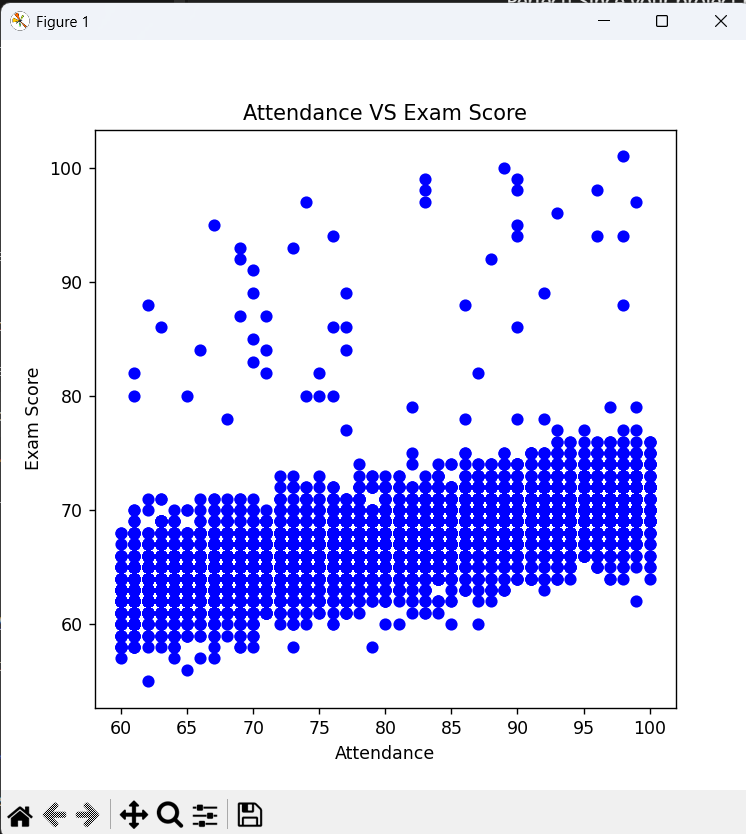
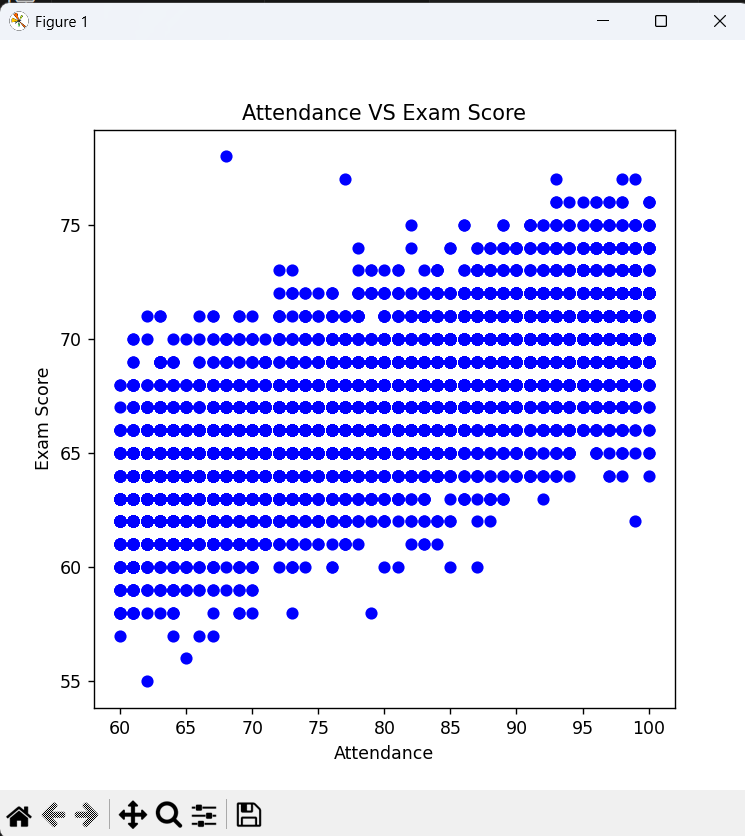
Version01

diff --git a/StudentScorePrediction.py b/StudentScorePrediction.py
@@ -5,13 +5,18 @@ from sklearn.model_selection import train_test_split
 from sklearn.metrics import mean_squared_error, mean_absolute_error, r2_score
 import matplotlib.pyplot as plt
 import seaborn as sb
+from scipy import stats
 
 # Load and clean data
 Data = pd.read_csv('StudentPerformanceFactors.csv')
-Clean_Data = Data.dropna(axis=0)
+No_NUll_Data = Data.dropna(axis=0)
+All_Factors = ['Hours_Studied','Attendance','Sleep_Hours','Previous_Scores','Tutoring_Sessions','Physical_Activity','Exam_Score']
+
+# Remove Outliers by z-score
+z_score = stats.zscore(No_NUll_Data[All_Factors])
+Clean_Data = No_NUll_Data[abs(z_score<3).all(axis=1)]
 
 # Correlation heatmap
-All_Factors = ['Hours_Studied','Attendance','Sleep_Hours','Previous_Scores','Tutoring_Sessions','Physical_Activity','Exam_Score']
 Check_Correlation = Clean_Data[All_Factors]
 plt.figure(figsize=(13,6))
 sb.heatmap(Check_Correlation.corr(), annot=True, cmap='coolwarm')

diff --git a/README.md b/README.md
@@ -8,7 +8,7 @@ It uses **machine learning regression models** to train and evaluate predictions
 ## 🚀 Project Workflow
 
 1. **Data Cleaning**  
-   - Removed missing values (NaN).  
+   - Removed missing values (NaN) and Drop Outliers.
 
 2. **Exploratory Data Analysis (EDA)**  
    - Scatter plots to visualize relationships between factors and exam score.  
@@ -27,9 +27,9 @@ It uses **machine learning regression models** to train and evaluate predictions
    - Compared predictions with actual scores.  
 
 5. **Evaluation**  
-   - **Mean Absolute Error (MAE):** ~1.35  
-   - **Mean Squared Error (MSE):** ~4.74  
-   - **R² Score:** ~0.67 
+   - **Mean Absolute Error (MAE):** ~1.15  
+   - **Mean Squared Error (MSE):** ~2.06  
+   - **R² Score:** ~0.82 
 
 6. **Prediction vs Actual**  
    - Compared predicted values against actual exam scores to check performance.  
@@ -74,7 +74,7 @@ The dataset used is **StudentPerformanceFactors.csv**, containing features that 
 
 ## 📈 Results
 ![alt text](image.png)
-- The **Polynomial Regression model** gave an R² score of **0.67**, meaning it explains ~67% of the variance in exam scores.  
+- The **Polynomial Regression model** gave an R² score of **0.82**, meaning it explains ~82% of the variance in exam scores.  
 - Predictions were close to actual exam scores with low error values.  
 
 ---
